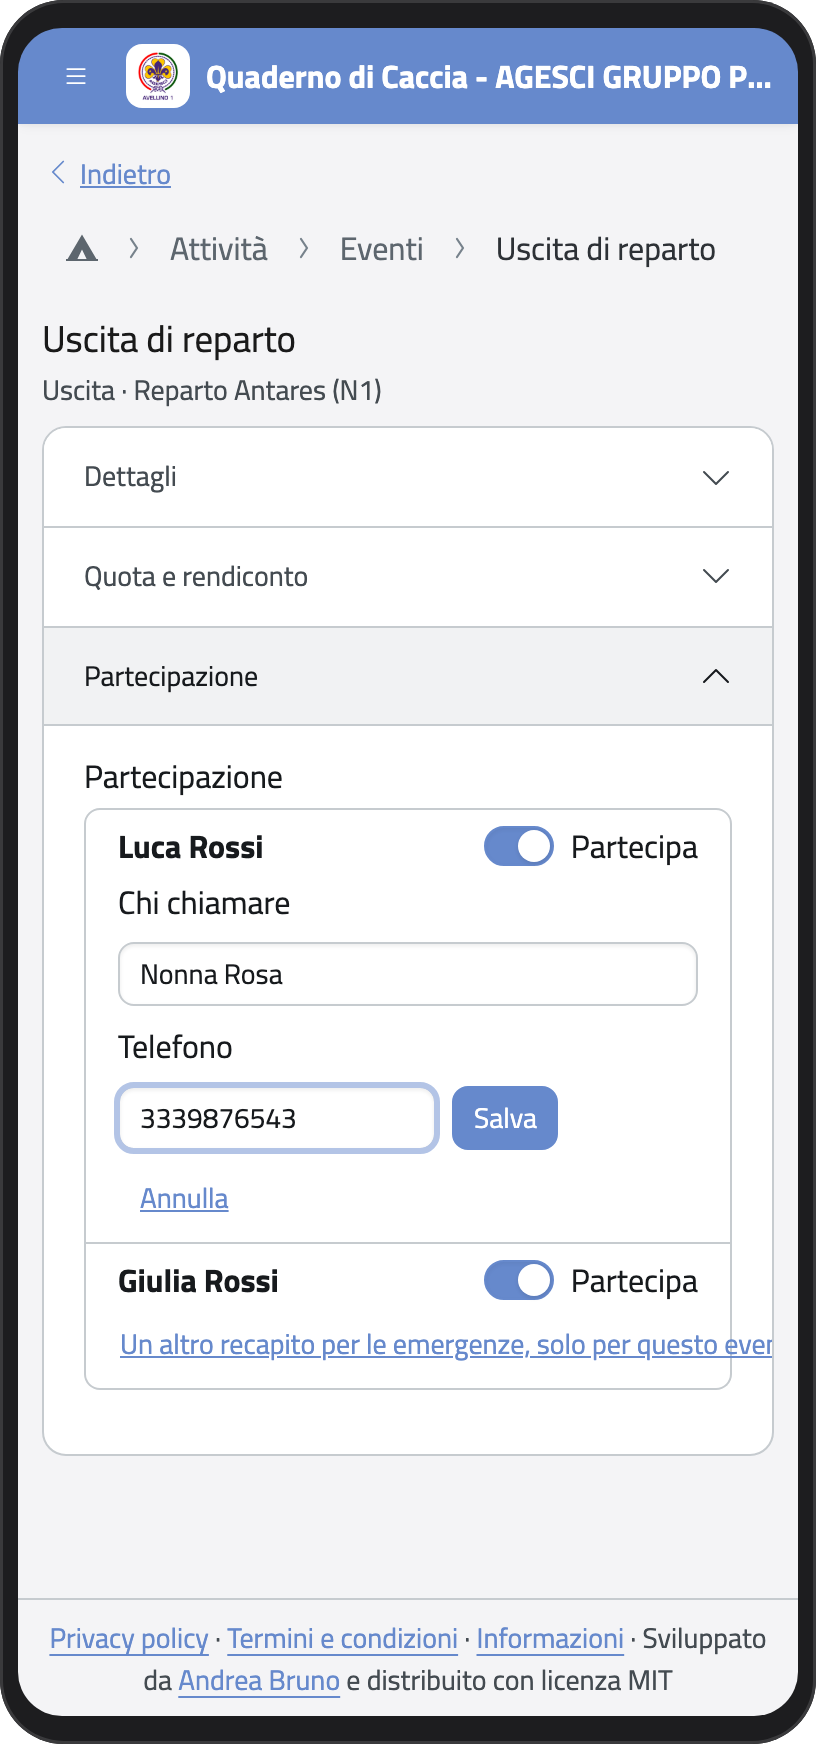
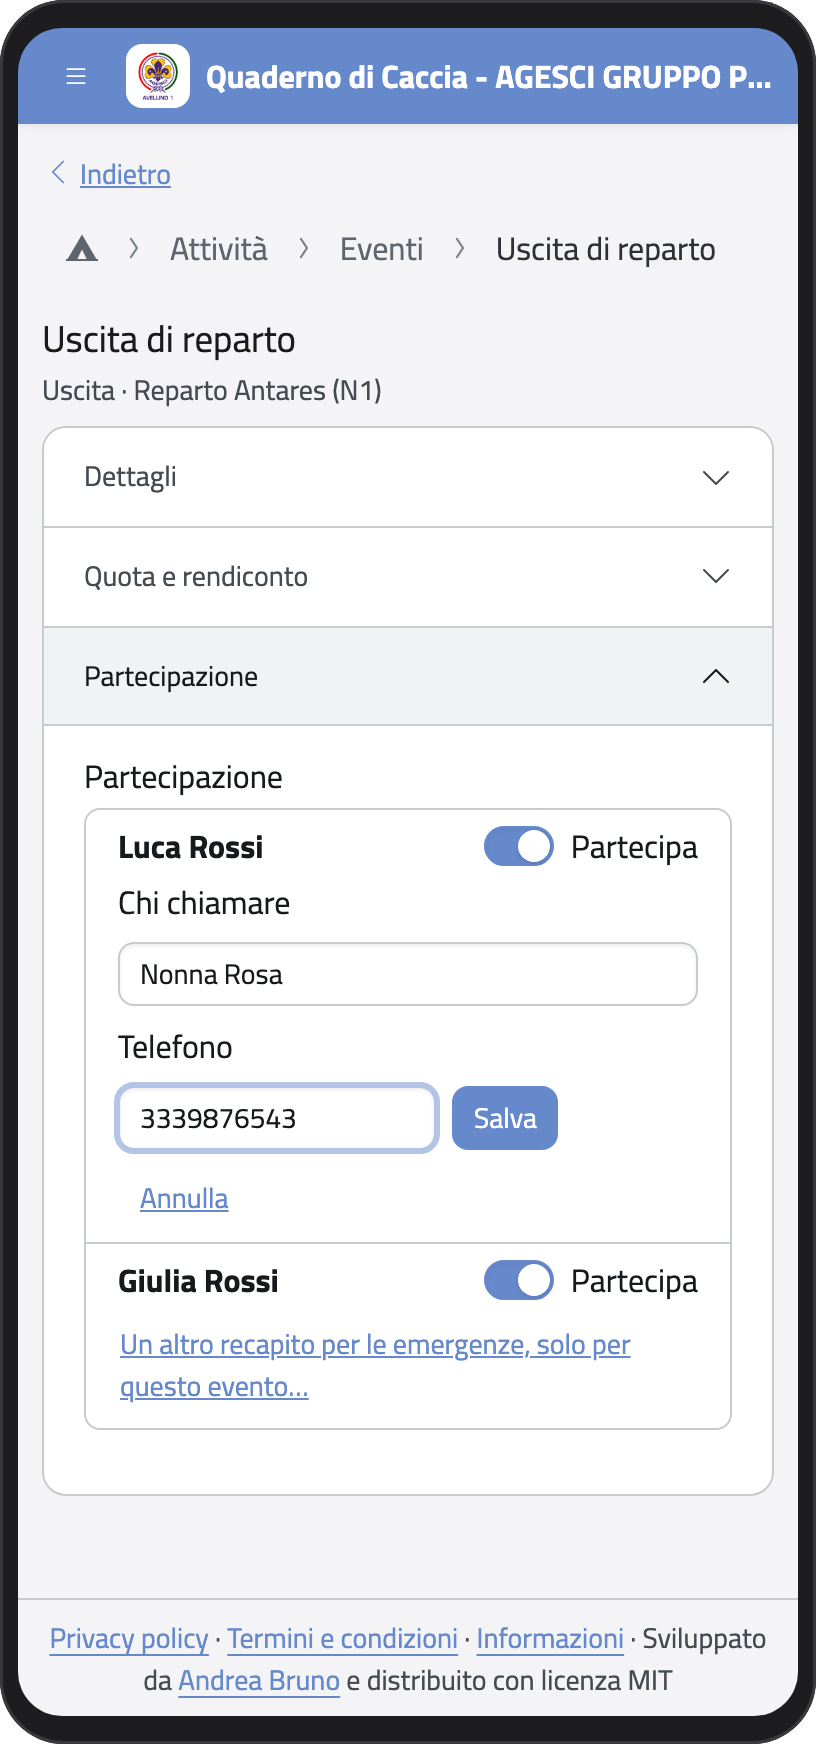
Long buttons wrap on the phone (#105)

Changed region(s): [[0.7659, 0.7431, 0.9191, 0.805], [0.1532, 0.7741, 0.3676, 0.805]]

diff --git a/frontend/src/components/ReperibilitaEvento.vue b/frontend/src/components/ReperibilitaEvento.vue
@@ -45,7 +45,12 @@ async function salva(togli = false) {
       In caso di emergenza per questo evento: <strong>{{ attuale.nome }}</strong>
       <Telefono v-if="attuale.telefono" :numero="attuale.telefono" :di="attuale.nome" />
     </p>
-    <button v-if="!aperta" type="button" class="btn btn-sm btn-link px-0" @click="apri">
+    <button
+      v-if="!aperta"
+      type="button"
+      class="btn btn-sm btn-link px-0 text-wrap text-start"
+      @click="apri"
+    >
       Un altro recapito per le emergenze, solo per questo evento…
     </button>
     <form v-else class="d-flex flex-wrap align-items-end gap-3" @submit.prevent="salva()">

diff --git a/frontend/src/views/SbloccoView.vue b/frontend/src/views/SbloccoView.vue
@@ -167,7 +167,7 @@ async function esciECancella() {
         Il tuo PIN è più lungo di {{ LUNGHEZZA_PIN }} cifre?
       </button>
     </template>
-    <button type="button" class="btn btn-link btn-sm mt-5" @click="esciECancella">
+    <button type="button" class="btn btn-link btn-sm mt-5 text-wrap" @click="esciECancella">
       Non sei tu? Esci e cancella i dati da questo dispositivo
     </button>
   </section>

diff --git a/frontend/src/components/VerbaliCollegati.vue b/frontend/src/components/VerbaliCollegati.vue
@@ -335,7 +335,7 @@ const quando = (iso: string) => new Date(iso).toLocaleDateString('it-IT')
     <button
       v-if="daAggiungere.includes('CAPI_GRUPPO')"
       type="button"
-      class="btn btn-sm btn-outline theme-primary align-self-start"
+      class="btn btn-sm btn-outline theme-primary align-self-start text-wrap text-start"
       :disabled="inCorso"
       @click="aggiungi"
     >

diff --git a/frontend/src/components/RegoleRapporto.vue b/frontend/src/components/RegoleRapporto.vue
@@ -54,7 +54,7 @@ async function salva() {
       </div>
     </div>
     <p v-else-if="!aperta" class="small mb-5">
-      <button type="button" class="btn btn-sm btn-link px-0" @click="apri">
+      <button type="button" class="btn btn-sm btn-link px-0 text-wrap text-start" @click="apri">
         Regole sul rapporto con il minore indicate dai genitori…
       </button>
     </p>
